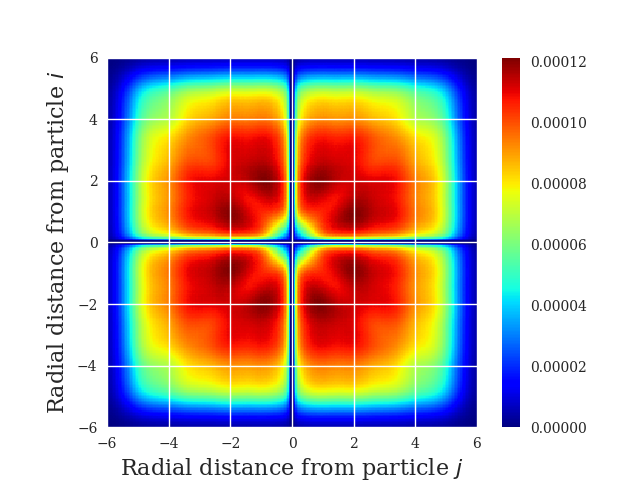
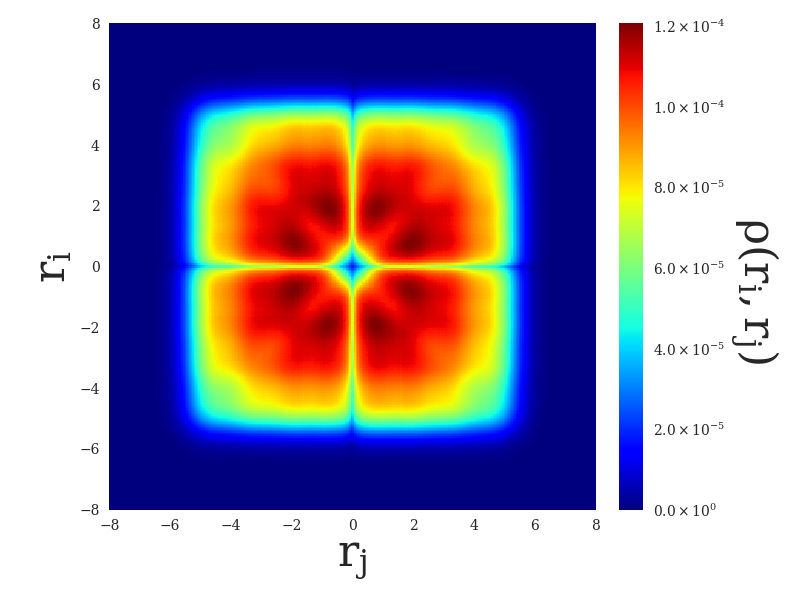
Added plots and scripts

diff --git a/scripts/plot_ob2.py b/scripts/plot_ob2.py
@@ -1,0 +1,61 @@
+import numpy as np
+import matplotlib.pyplot as plt
+from mpl_toolkits.mplot3d import Axes3D
+from matplotlib import cm 
+from matplotlib.ticker import LinearLocator, FormatStrFormatter
+
+def prepare_data(fileName="../data/test.dat"):
+    data = np.loadtxt(fileName)
+    data /= data.sum()
+    return np.where(data > 0.00002, 0, data)
+    
+def plot_heatmap(data, radius=5):
+    plt.figure()
+    plt.imshow(data, cmap=plt.cm.jet, extent=[-radius,radius,-radius,radius])
+    plt.colorbar()
+    plt.show()
+    
+def plot_3D(data, radius=5):
+    x = y = np.linspace(-radius, radius, 3000)
+    xx, yy = np.meshgrid(x, y, sparse=True)
+
+    fig = plt.figure() 
+    ax = fig.gca(projection='3d')
+
+    #Plot the surface. 
+    surf = ax.plot_surface(xx,yy,data,cmap=cm.coolwarm,linewidth=0,antialiased=False)
+
+    #Customize the z axis. 
+    #ax.set_zlim(-0.10,1.40)
+    ax.zaxis.set_major_locator(LinearLocator(10))
+    ax.zaxis.set_major_formatter(FormatStrFormatter('%.02f'))
+    ax.set_xlabel('X axis')
+    ax.set_ylabel('Y axis')
+    ax.set_zlabel('Z axis')
+
+    #Add a color bar which maps values to colors. 
+    fig.colorbar(surf, shrink=0.5, aspect=5)
+    plt.show()
+    
+def plot_radial(data, radius=5):
+    numberOfPoints = len(data)
+    radiii = np.zeros(int(numberOfPoints/2))
+    binshit = radiii.copy()
+    for i in range(numberOfPoints):
+        for j in range(numberOfPoints):
+            radii = int(np.sqrt((i-numberOfPoints/2-1)**2 + (j-numberOfPoints/2-1)**2))
+            if radii < numberOfPoints/2:
+                binshit[radii] += 1.
+                radiii[radii] += data[i, j]
+                
+    plt.figure()
+    x = np.linspace(0,radius,numberOfPoints/2)
+    plt.plot(x, np.divide(radiii, binshit))
+    plt.show()
+
+if __name__ == "__main__":
+    radius = 10
+
+    data = prepare_data("../data/int1/quantumdot/onebody2/VMC/2D/2P/1.000000w/ADAM_MC262144.dat")
+    plot_heatmap(data, radius)
+    plot_radial(data, radius)

diff --git a/scripts/plot_ob_density.py b/scripts/plot_ob_density.py
@@ -3,7 +3,7 @@ import matplotlib.pyplot as plt
 import seaborn as sns
 #sns.set()
 
-numberOfDimensions = 3
+numberOfDimensions = 2
 
 def radial(size):
     n = np.arange(size)
@@ -19,15 +19,15 @@ def exact(r1, w):
     '''Exact solution without interaction for given w'''
     return (2*r1+1)*np.exp(- w * r1**2)
 
-files = ["../data/int1/quantumdot/onebody/VMC/3D/70P/1.000000w/ADAM_MC1048576.dat",
-         "../data/int1/quantumdot/onebody/RBM/3D/70P/1.000000w/ADAM_MC1048576.dat",
-         #"../data/int1/onebody/RBMSJ/2D/6P/0.010000w/ADAM_MC1048576.dat",
-         #"../data/int1/onebody/RBMPJ/2D/6P/0.010000w/ADAM_MC1048576.dat",
+files = ["../data/int1/onebody/VMC/2D/20P/0.280000w/ADAM_MC1048576.dat",
+         #"../data/int1/onebody/RBM/2D/20P/0.280000w/ADAM_MC1048576.dat",
+         "../data/int1/onebody/RBMSJ/2D/20P/0.280000w/ADAM_MC1048576.dat",
+         #"../data/int1/onebody/RBMPJ/2D/20P/0.280000w/ADAM_MC1048576.dat",
          ]
          
 label = ["VMC",
-         "RBM",
-         #"RBM+SJ",
+         #"RBM",
+         "RBM+SJ",
          "RBM+PJ"
          ]
          
@@ -38,14 +38,14 @@ line_style = ["-",
               ]
          
 maxRadius = [30,
-             35,
+             30,
              30,
              30
              ]
 
-limit = [0.00023, 
-         0.00023, 
-         0.000, 
+limit = [0.00013, 
+         0.000125, 
+         0.000125, 
          0.000
          ]
 

diff --git a/scripts/plot_tb_density.py b/scripts/plot_tb_density.py
@@ -15,8 +15,8 @@ def radial(size, numberOfDimensions):
 
 def generateFileName(system, method, dim, particle, omega):
     fileName  = "../data/int1/"
-    fileName += system   + "/"
-    filename += "twobody" + "/"
+    #fileName += system   + "/"
+    fileName += "twobody" + "/"
     fileName += method   + "/"
     fileName += dim      + "D/"
     fileName += particle + "P/"
@@ -27,8 +27,8 @@ def generateFileName(system, method, dim, particle, omega):
 
 def saveFigure(system, method, dim, particle, omega):
     fileName  = "../plots/int1/"
-    fileName += system   + "/"
-    filename += "twobody" + "/"
+    #fileName += system   + "/"
+    fileName += "twobody" + "/"
     fileName += dim      + "D/"
     fileName += particle + "P/"
     fileName += omega    + "w/"
@@ -55,7 +55,7 @@ def norm(data, numberOfDimensions):
     data /= np.multiply(xx,yy)
     data /= np.sum(np.nan_to_num(data))
     
-    data = np.where(data > 0.0002, 0, data)
+    data = np.where(data > 0.000025, 0, data)
     
     return data
     
@@ -100,13 +100,13 @@ def plot(data, radius):
 
 
 def main():
-    maxRadius = [35]
-    newRadius = [8]
+    maxRadius = [30]
+    newRadius = [6]
 
     systems   = ['quantumdot']
-    methods   = ['VMC','RBM']
-    dims      = ['3']
-    particles = ['70']
+    methods   = ['RBMSJ']
+    dims      = ['2']
+    particles = ['20']
     omegas    = ['1.000000']      
 
     i=0
